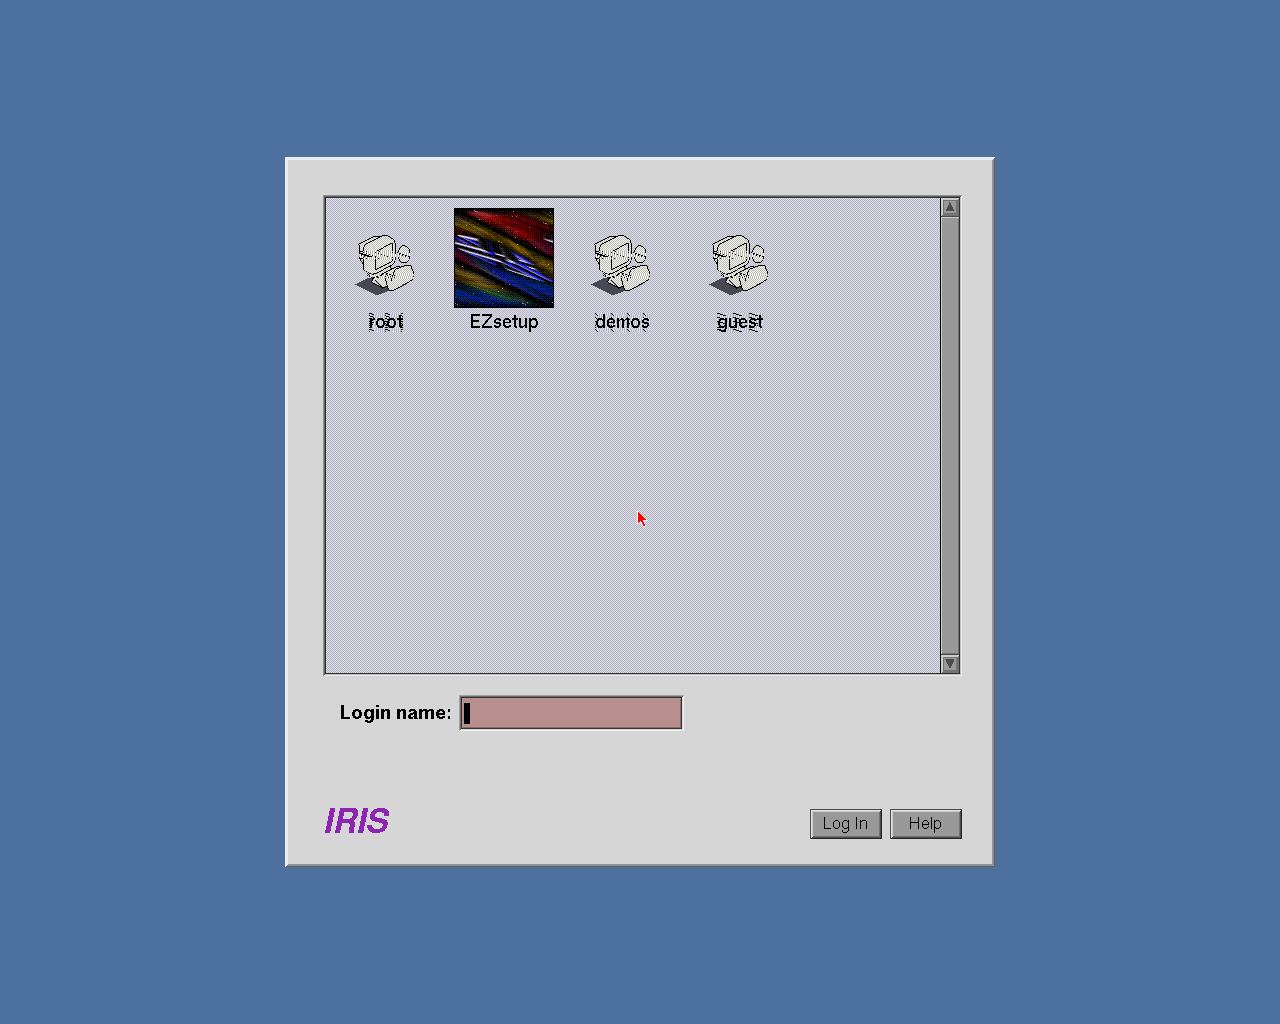
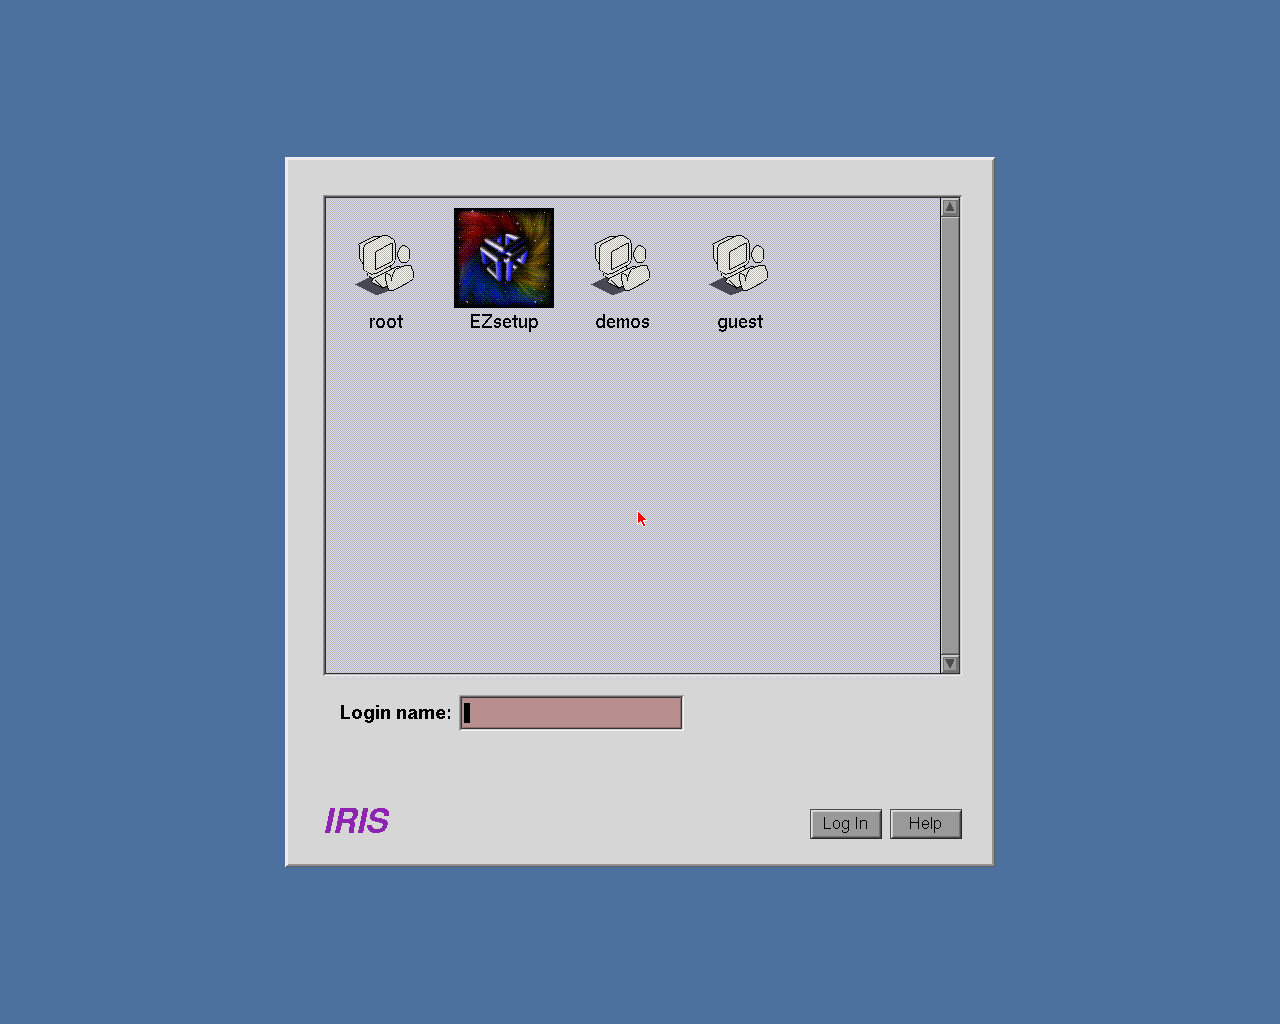
Newport: a fine riga il resto della parola dall'host si scarta (testo e icone di X corretti)

diff --git a/src/indy/newport.c b/src/indy/newport.c
@@ -270,7 +270,8 @@ static void draw_block(Newport *n, int kind)
         int row_end = step_block(n, &x, &y, ydir);
         if (limit >= 0 && count >= limit) break;
         if (row_end) {
-            if (kind == GO_PATTERN) break;                        /* una riga per pattern */
+            /* pattern e dati dall'host: a fine riga il resto della parola si scarta */
+            if (kind == GO_PATTERN || kind == GO_HOST) break;
             if (am == AM_SPAN) break;
             if (kind == GO_FULL && !(dm0 & DM0_STOPY)) break;     /* senza STOPY: una riga */
             if ((ydir > 0 && y > n->yend) || (ydir < 0 && y < n->yend)) break;
@@ -351,9 +352,8 @@ static void go(Newport *n, int kind)
 {
     uint32_t dm0 = n->drawmode0;
     int op = (int)(dm0 & DM0_OPMASK), am = DM0_AM(dm0);
-    n->draws++;
-    if (n->trace > 0 && op && ((kind == GO_HOST && (n->ystart == 300 || n->ystart == 700) && n->xstart < 40)
-                               || op == DM0_READ || op == DM0_S2S)) {
+    if (n->trace > 0 && op) {                          /* --nptrace: tutti i comandi */
+                               && ((n->xstart >= 355 && n->xstart <= 420) || (n->xend >= 355 && n->xend <= 420)) && !(n->xend == 1279 && n->yend == 1023)) {
         n->trace--;
         fprintf(stderr, "[go k%d dm0=%08X dm1=%08X (%d,%d)-(%d,%d) host=%08X ci=%X win=%08X clip=%X mv=%X]\n",
                 kind, dm0, n->drawmode1, n->xstart, n->ystart, n->xend, n->yend, n->hostrw0,
